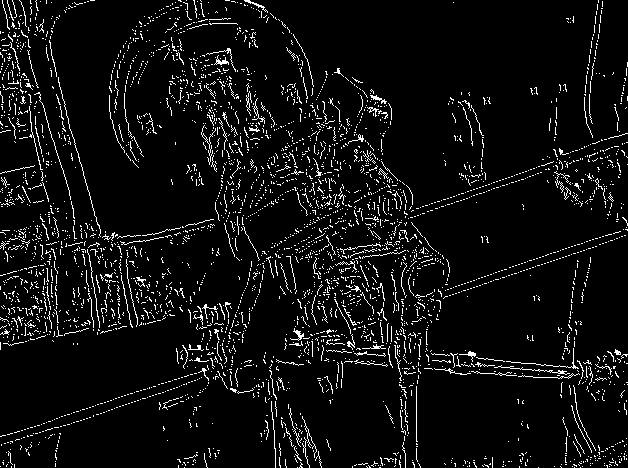
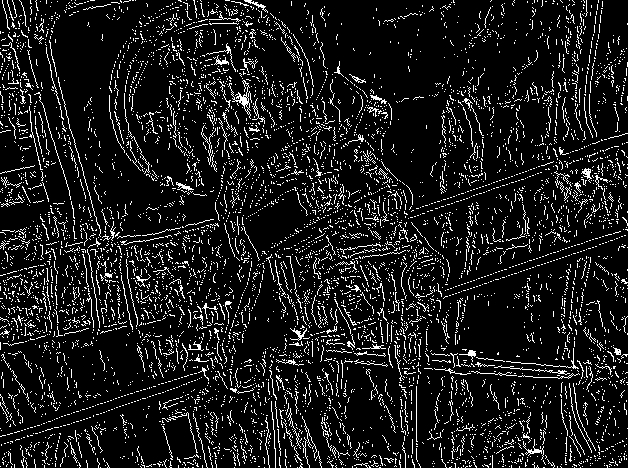
a bug in the canny filter is now corrected !

diff --git a/src/image/imageFilters/cannyFilter.cc b/src/image/imageFilters/cannyFilter.cc
@@ -109,6 +109,7 @@ void Image::applyCannyFilter(const unsigned int highLimit, const unsigned int lo
     // For each pixel of this line...
     for(unsigned int j = 1; j < width - 1; j++) {
 
+      // We remove the pixels that are not part of the outlines
       if(gradientDirection[i][j] > - 90 && gradientDirection[i][j] <= - 67.5) {
         if(gradient[i][j] > gradient[i - 1][j] && gradient[i][j] > gradient[i + 1][j]) {
           if(gradient[i][j] > highLimit) {
@@ -127,7 +128,7 @@ void Image::applyCannyFilter(const unsigned int highLimit, const unsigned int lo
       }
 
       if(gradientDirection[i][j] > - 67.5 && gradientDirection[i][j] <= - 22.5) {
-        if(gradient[i][j] > gradient[i - 1][j - 1] && gradient[i][j] > gradient[i - 1][j - 1]) {
+        if(gradient[i][j] > gradient[i - 1][j - 1] && gradient[i][j] > gradient[i + 1][j + 1]) {
           if(gradient[i][j] > highLimit) {
             newLine.push_back(255);
           }
